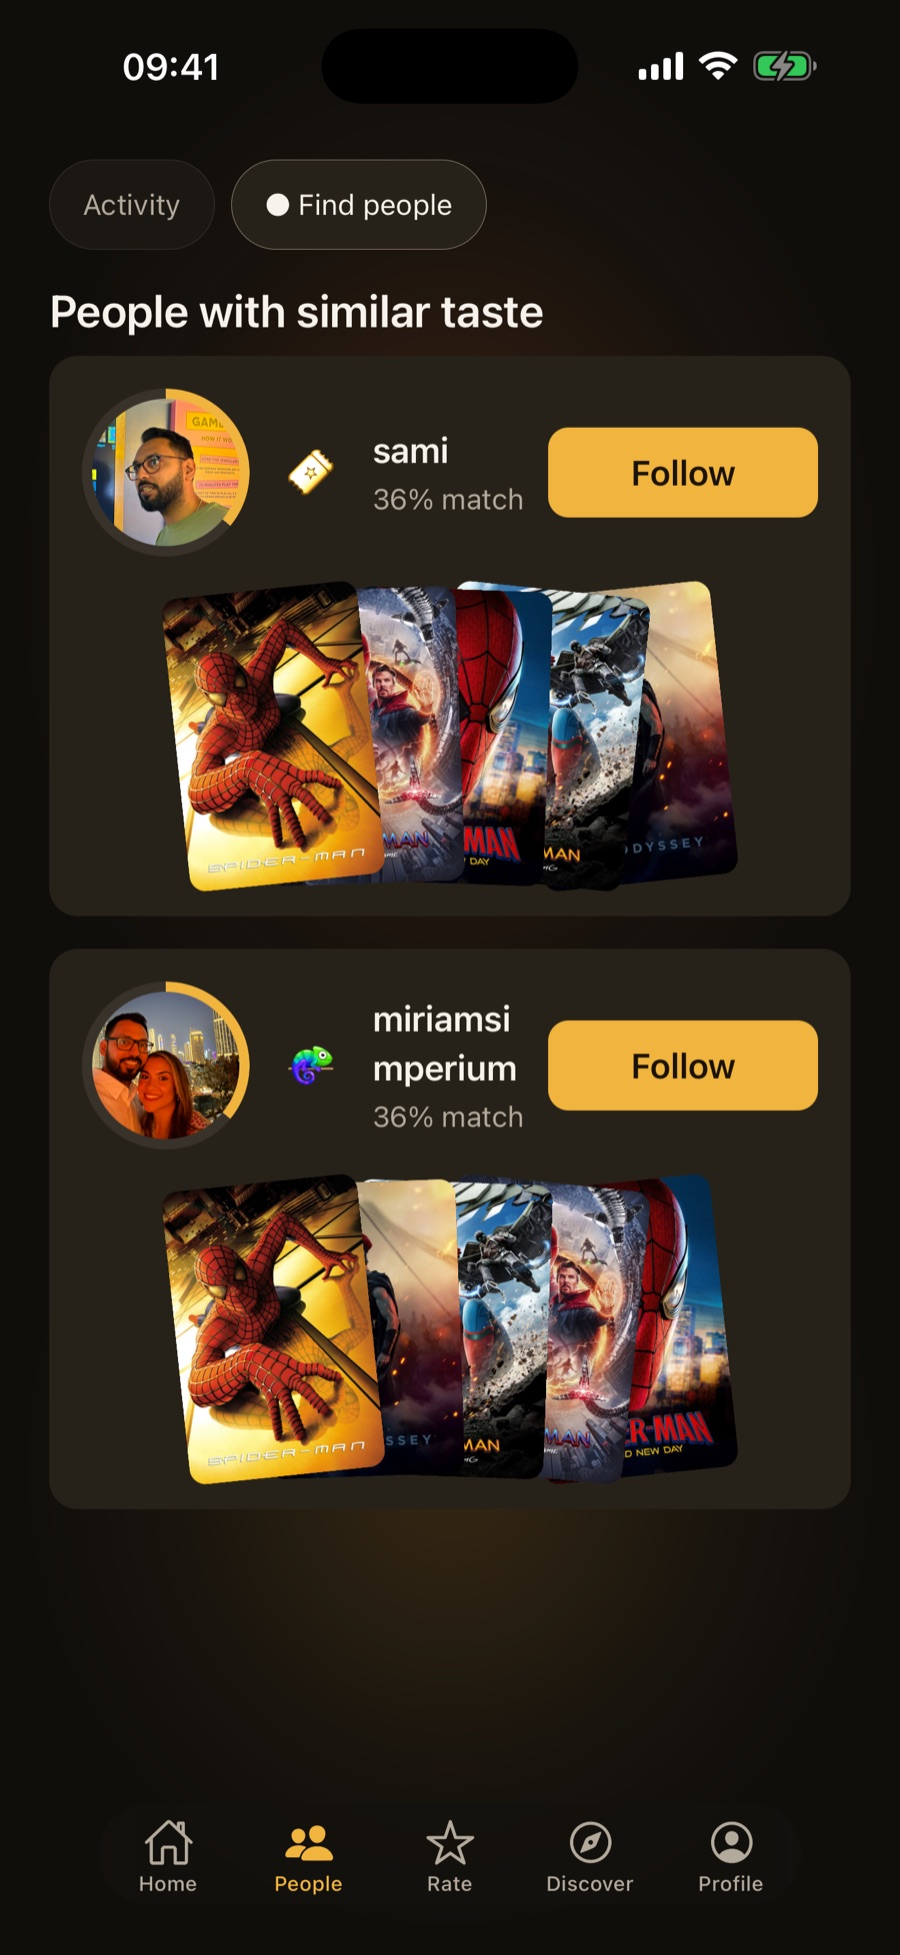
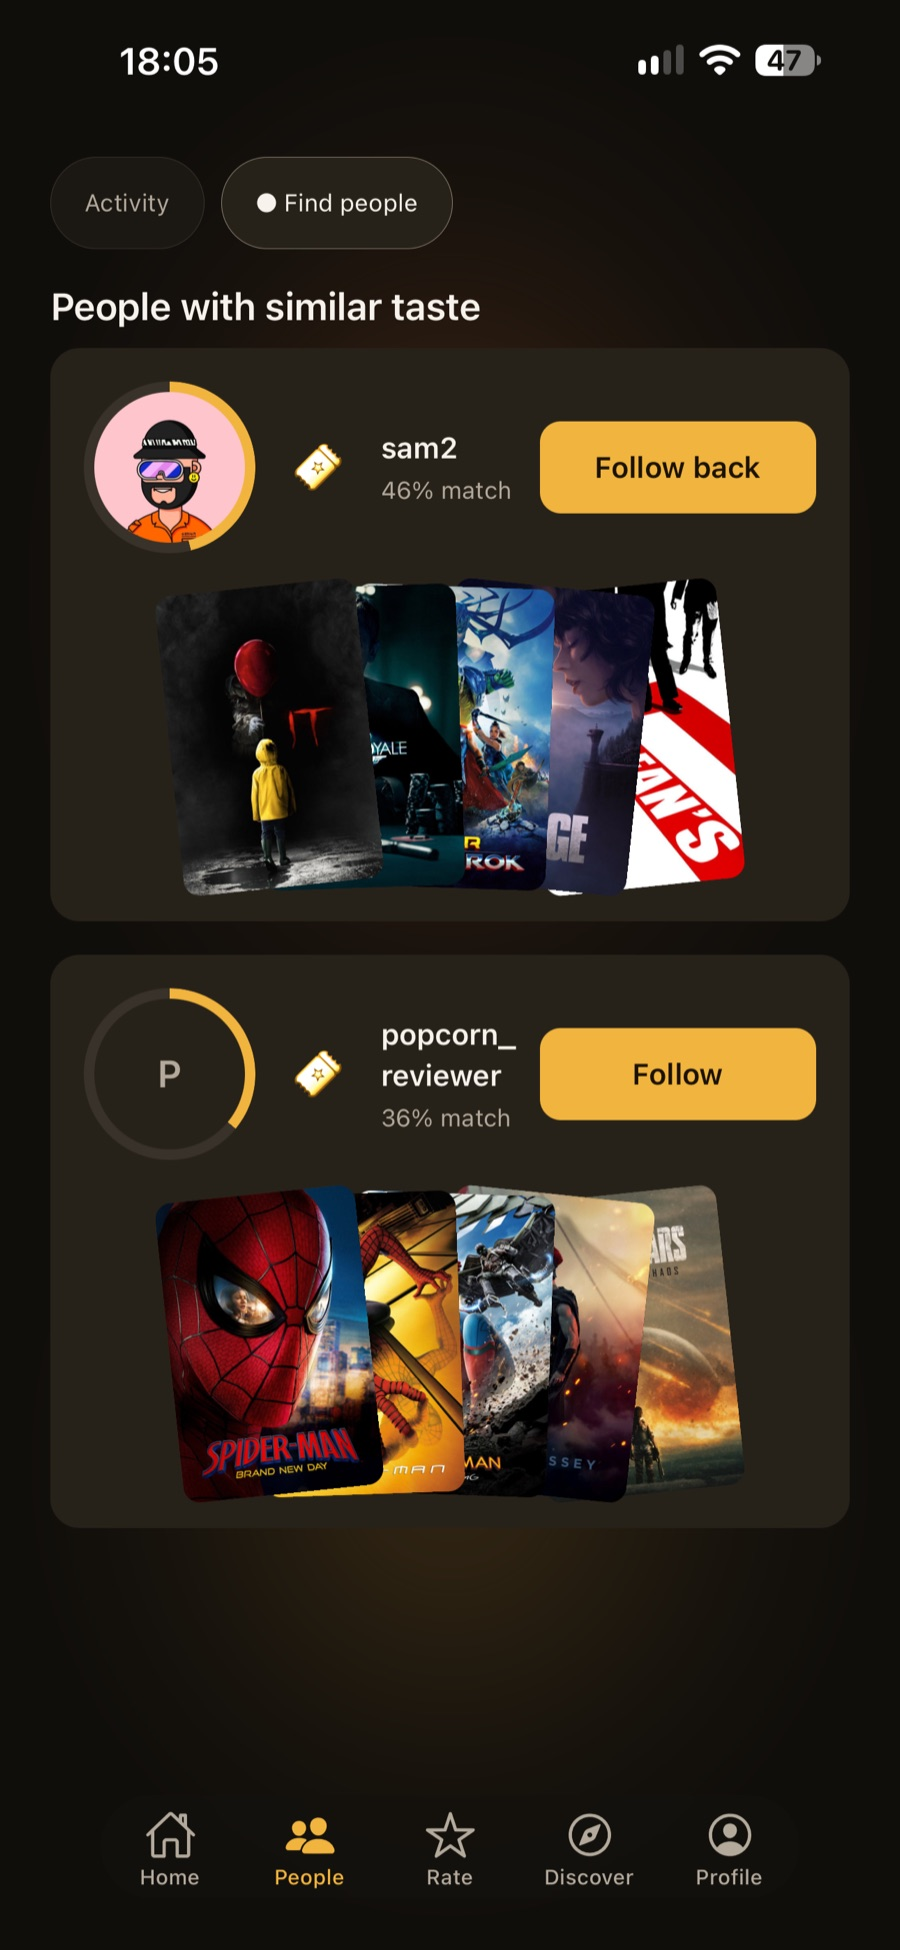
How it works: People tab screenshot from build 59

diff --git a/how-it-works/index.html b/how-it-works/index.html
@@ -93,7 +93,7 @@
       <p>Poppd looks for users whose ratings line up with yours across the films you've both seen, and treats their opinions as evidence. When eighteen people with your taste loved a film you haven't seen, that counts for more than a million strangers liking it.</p>
       <p>You'll see who agrees with you, and where you part ways.</p>
     </div>
-    <figure class="shot phone"><img src="/assets/hiw-people.jpg" alt="The People tab in Poppd listing users with a taste match percentage against you" width="900" height="1956" loading="lazy"><figcaption>Taste matches, ranked by how closely they rate like you.</figcaption></figure>
+    <figure class="shot phone"><img src="/assets/hiw-people.jpg" alt="The People tab in Poppd: people with similar taste, each with a match percentage and a fan of their top-rated posters" width="900" height="1951" loading="lazy"><figcaption>Taste matches, ranked by how closely they rate like you.</figcaption></figure>
   </section>
 
   <section class="step flip" aria-labelledby="s4">
